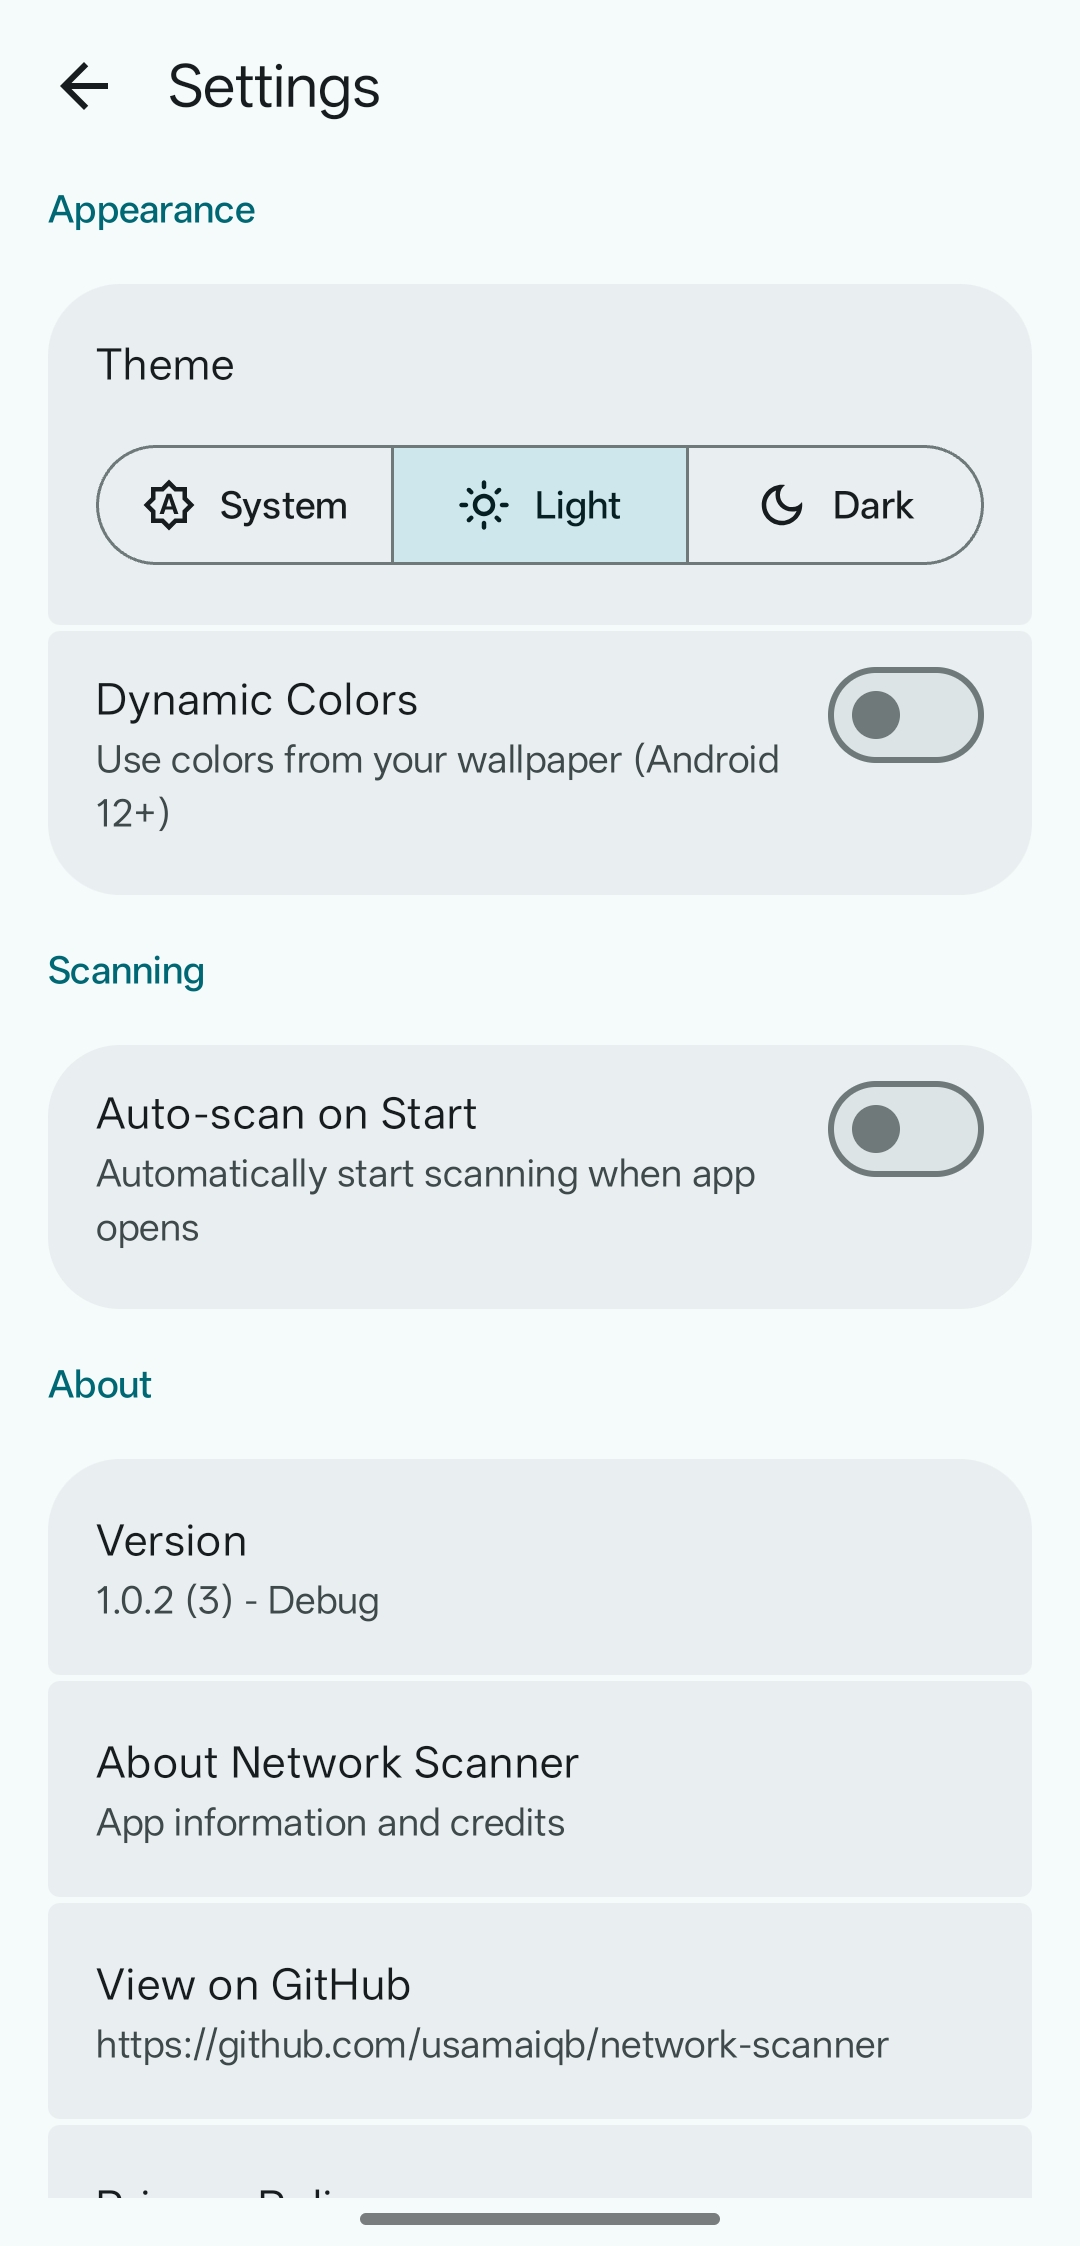
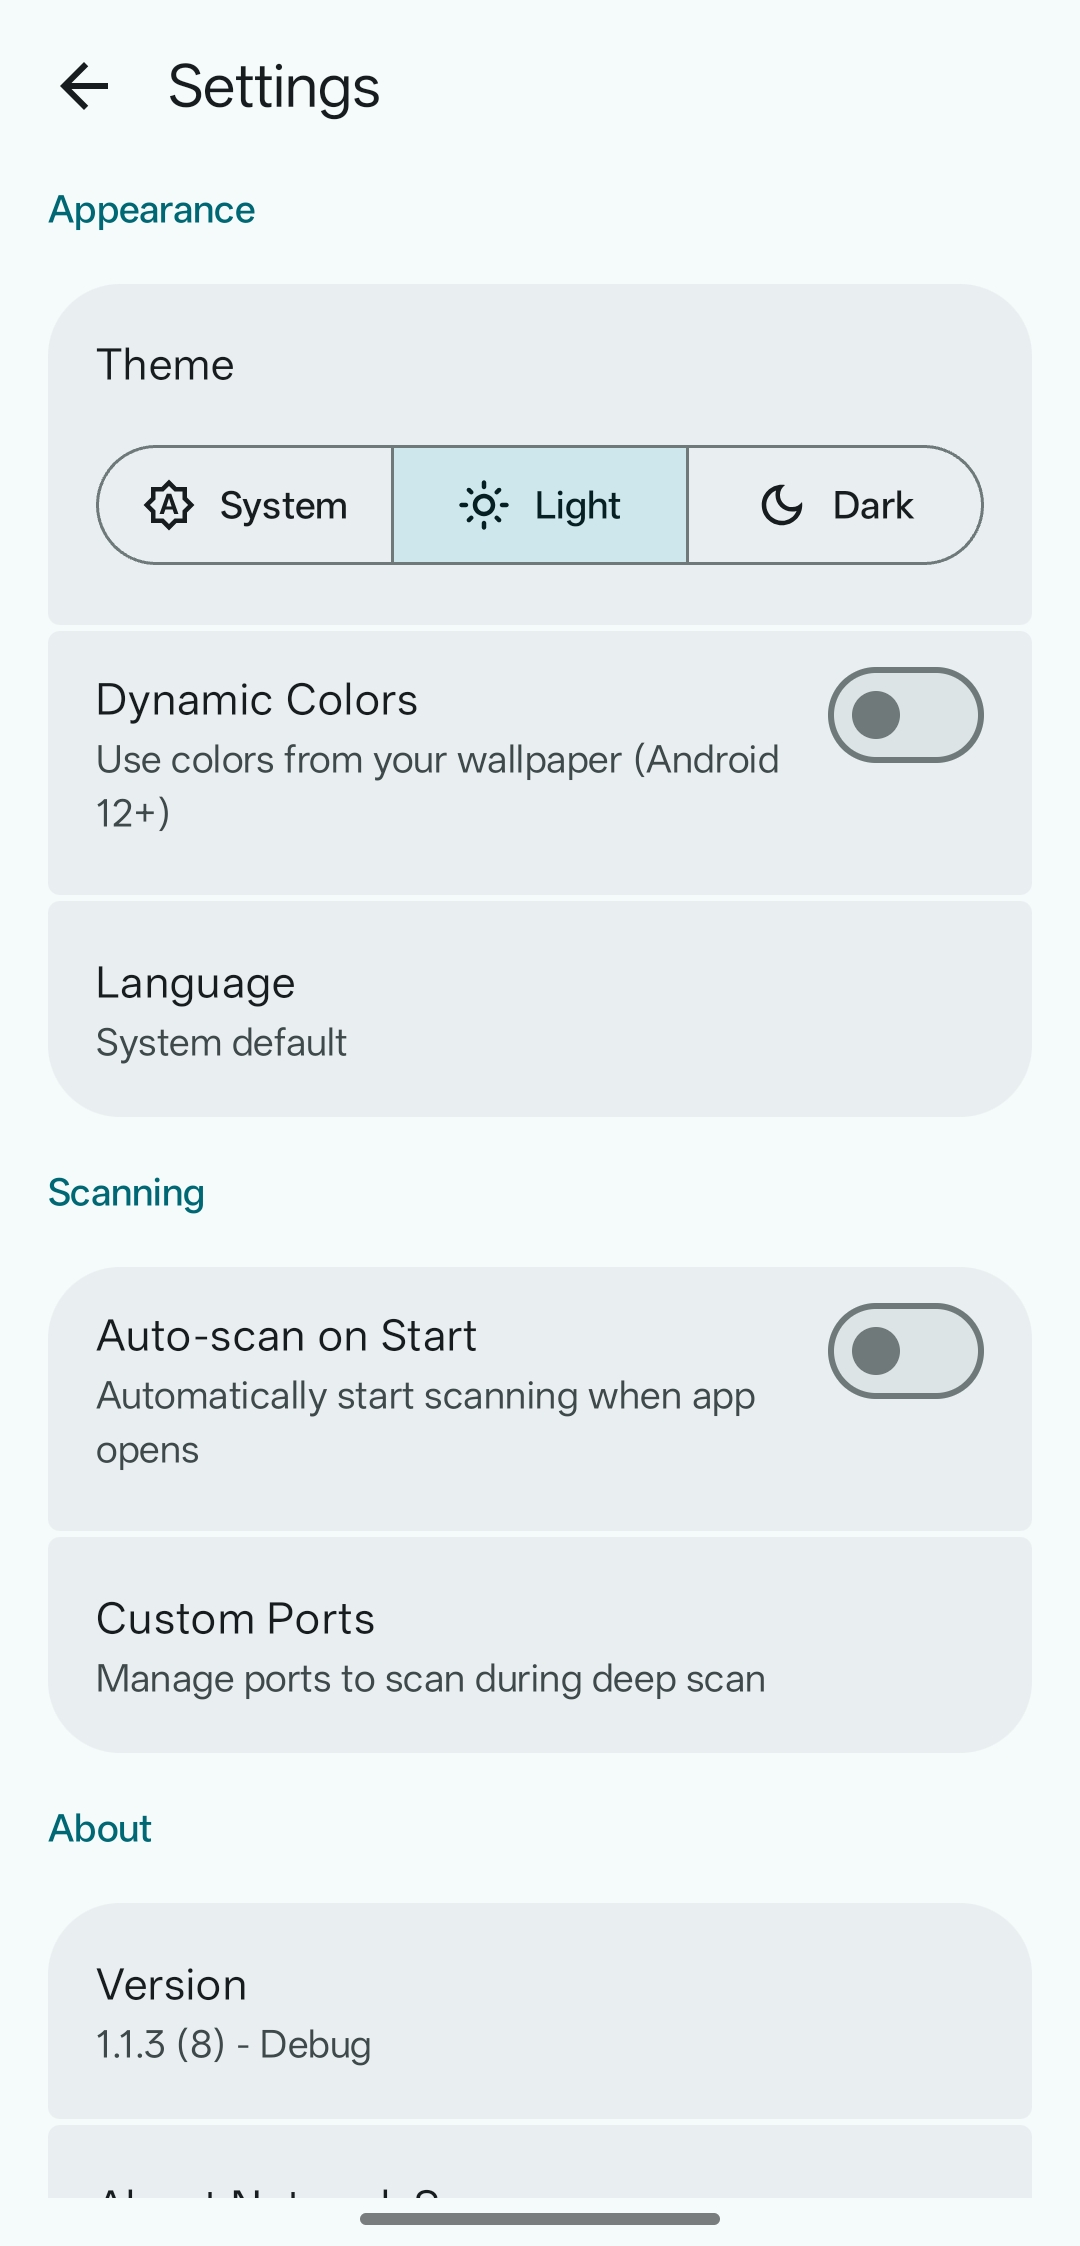
chore: Release v1.1.4 (#27)
* Release v1.1.4

* update readme and screenshots

Pull request: chore: Release v1.1.4
<!--
PR title must follow Conventional Commits, e.g.
  feat: add port range scan
  fix(scan): handle empty results
  docs: update install steps
This title becomes the squashed commit on main and feeds the release notes.
-->

## Description

<!-- What does this PR change, and why? -->

Closes #

## Checklist

- [x] PR title follows [Conventional Commits](https://www.conventionalcommits.org)
- [x] `./gradlew test` and `./gradlew lint` pass locally
- [x] UI changes include screenshots / screen recordings (if applicable)

### Release PRs only

- [x] `versionCode` bumped by exactly 1 **and** `versionName` updated in `app/build.gradle.kts`
- [x] Branch is named `release/v<versionName>`
- [x] `CHANGELOG.md` has a `## [<versionName>]` entry
- [x] `fastlane/metadata/android/en-US/changelogs/<versionCode>.txt` added (F-Droid / Play "What's New")

diff --git a/CHANGELOG.md b/CHANGELOG.md
@@ -1,3 +1,26 @@
+## [1.1.4] - 2026-06-20
+
+### Added
+- Custom device management: rename devices and assign custom icons (#3)
+- Configurable port list for scans (#7)
+- Full port scan (all 65k ports) via a channel-based worker pool (#14)
+- Network interface selection
+- Clickable IP addresses
+- Smart MAC address display with randomization detection
+- Multilingual support (English + Russian)
+
+### Improved
+- Per-app locale switching via AppCompat (removes Activity recreate hacks; works across all supported API levels)
+- Language selection now uses a scalable radio-button dialog
+- Full port scan reworked to 128-thread worker pool (300ms timeout), cutting a 65k-port sweep to ~1–3 min
+
+### Fixed
+- Process resource leaks in ArpReader (destroy() in finally blocks)
+- Correct CancellationException propagation in DeviceDetailViewModel
+
+### Changed
+- CI overhaul: split build into ci.yml (PRs/main) and release.yml (tags); SHA-pinned actions; unsigned release APK built on every PR to catch R8 regressions
+
 ## [1.1.3] - 2026-06-11
 
 ### Fixed

diff --git a/README.md b/README.md
@@ -15,12 +15,17 @@ A fast, privacy-focused network scanner for Android that helps you discover and 
 - 🔌 **Port Heuristics** - Identifies Cast-enabled TVs and other devices via targeted port probes when other methods come up empty
 
 ### Device Information
-- 🏷️ **MAC Address & Vendor** - Shows MAC address with OUI vendor lookup
+- 🏷️ **MAC Address & Vendor** - Shows MAC address with OUI vendor lookup, including detection of randomized (private) MAC addresses
 - 🖥️ **OS Fingerprinting** - Detects Windows, Linux, macOS, router firmware, and printer OS from open ports and banners
 - 📱 **Device Type Icons** - Automatically identifies smartphones, laptops, desktops, TVs, routers, printers, NAS, and more
 - 🔓 **Deep Port Scan** - Scans common ports, grabs service banners, and extracts software versions
+- 🧩 **Full Port Scan** - Optional sweep of all 65,535 ports via a fast worker pool
+- ⚙️ **Configurable Ports** - Customize which ports are probed during scans
 
 ### App
+- 🏷️ **Custom Devices** - Rename devices and assign your own icons for easy identification
+- 📶 **Interface Selection** - Choose which network interface to scan (Wi-Fi, Ethernet, VPN)
+- 🌍 **Multilingual** - Available in English and Russian
 - 🎨 **Material Design 3** - Modern interface following latest design guidelines
 - 🔒 **Privacy First** - No ads, no tracking, no analytics
 - 🚀 **Lightweight** - Minimal permissions, efficient battery usage
@@ -65,7 +70,7 @@ Network Scanner requests only essential permissions:
 ### Prerequisites
 - Android Studio Hedgehog (2023.1.1) or later
 - JDK 17
-- Android SDK with API level 34
+- Android SDK with API level 35
 
 ### Build Steps
 
@@ -87,7 +92,8 @@ cd network-scanner
 1. Open the app and grant necessary permissions
 2. Tap the scan button to discover devices
 3. Tap any device to view detailed information
-4. Use the deep scan option for port scanning
+4. Use the deep scan option for port scanning, or run a full port scan for all 65,535 ports
+5. Rename devices or assign custom icons to keep track of your network
 
 ## Contributing
 